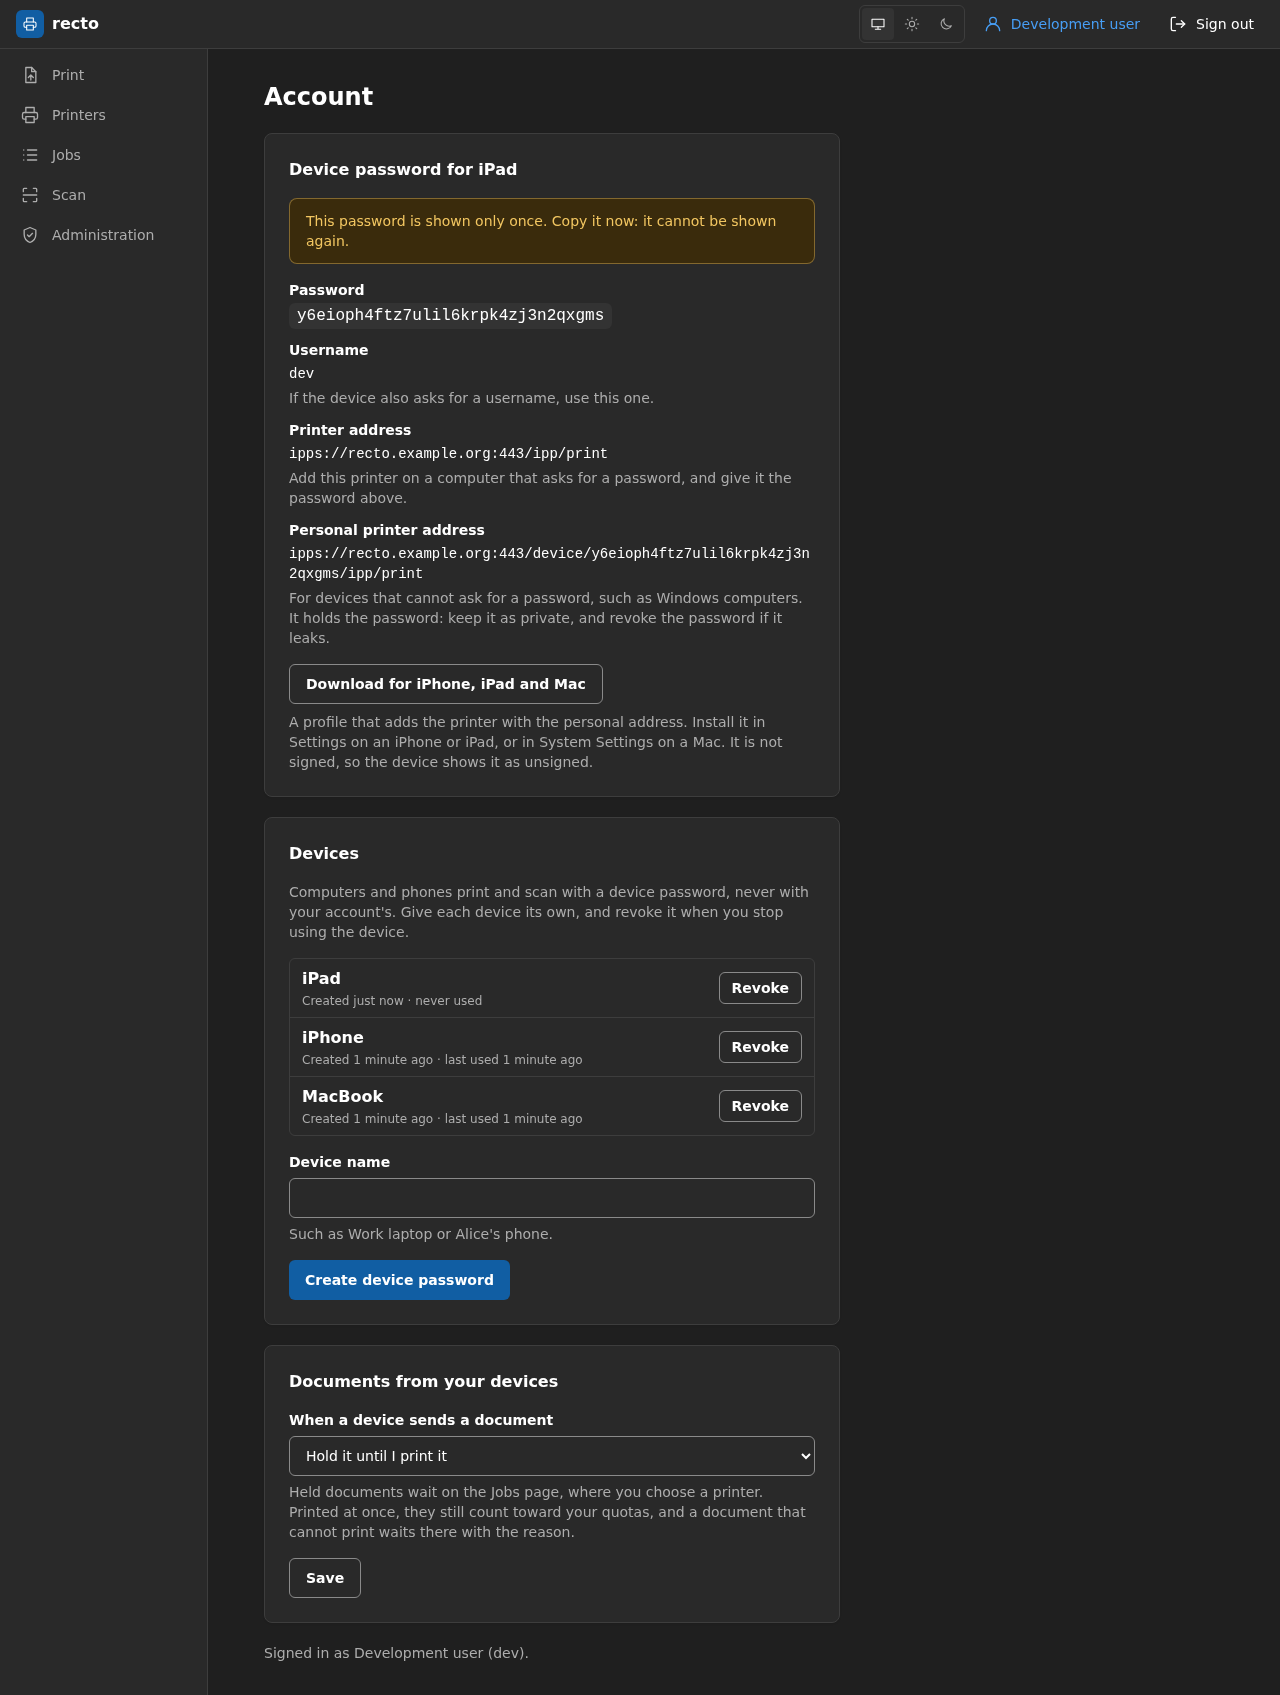
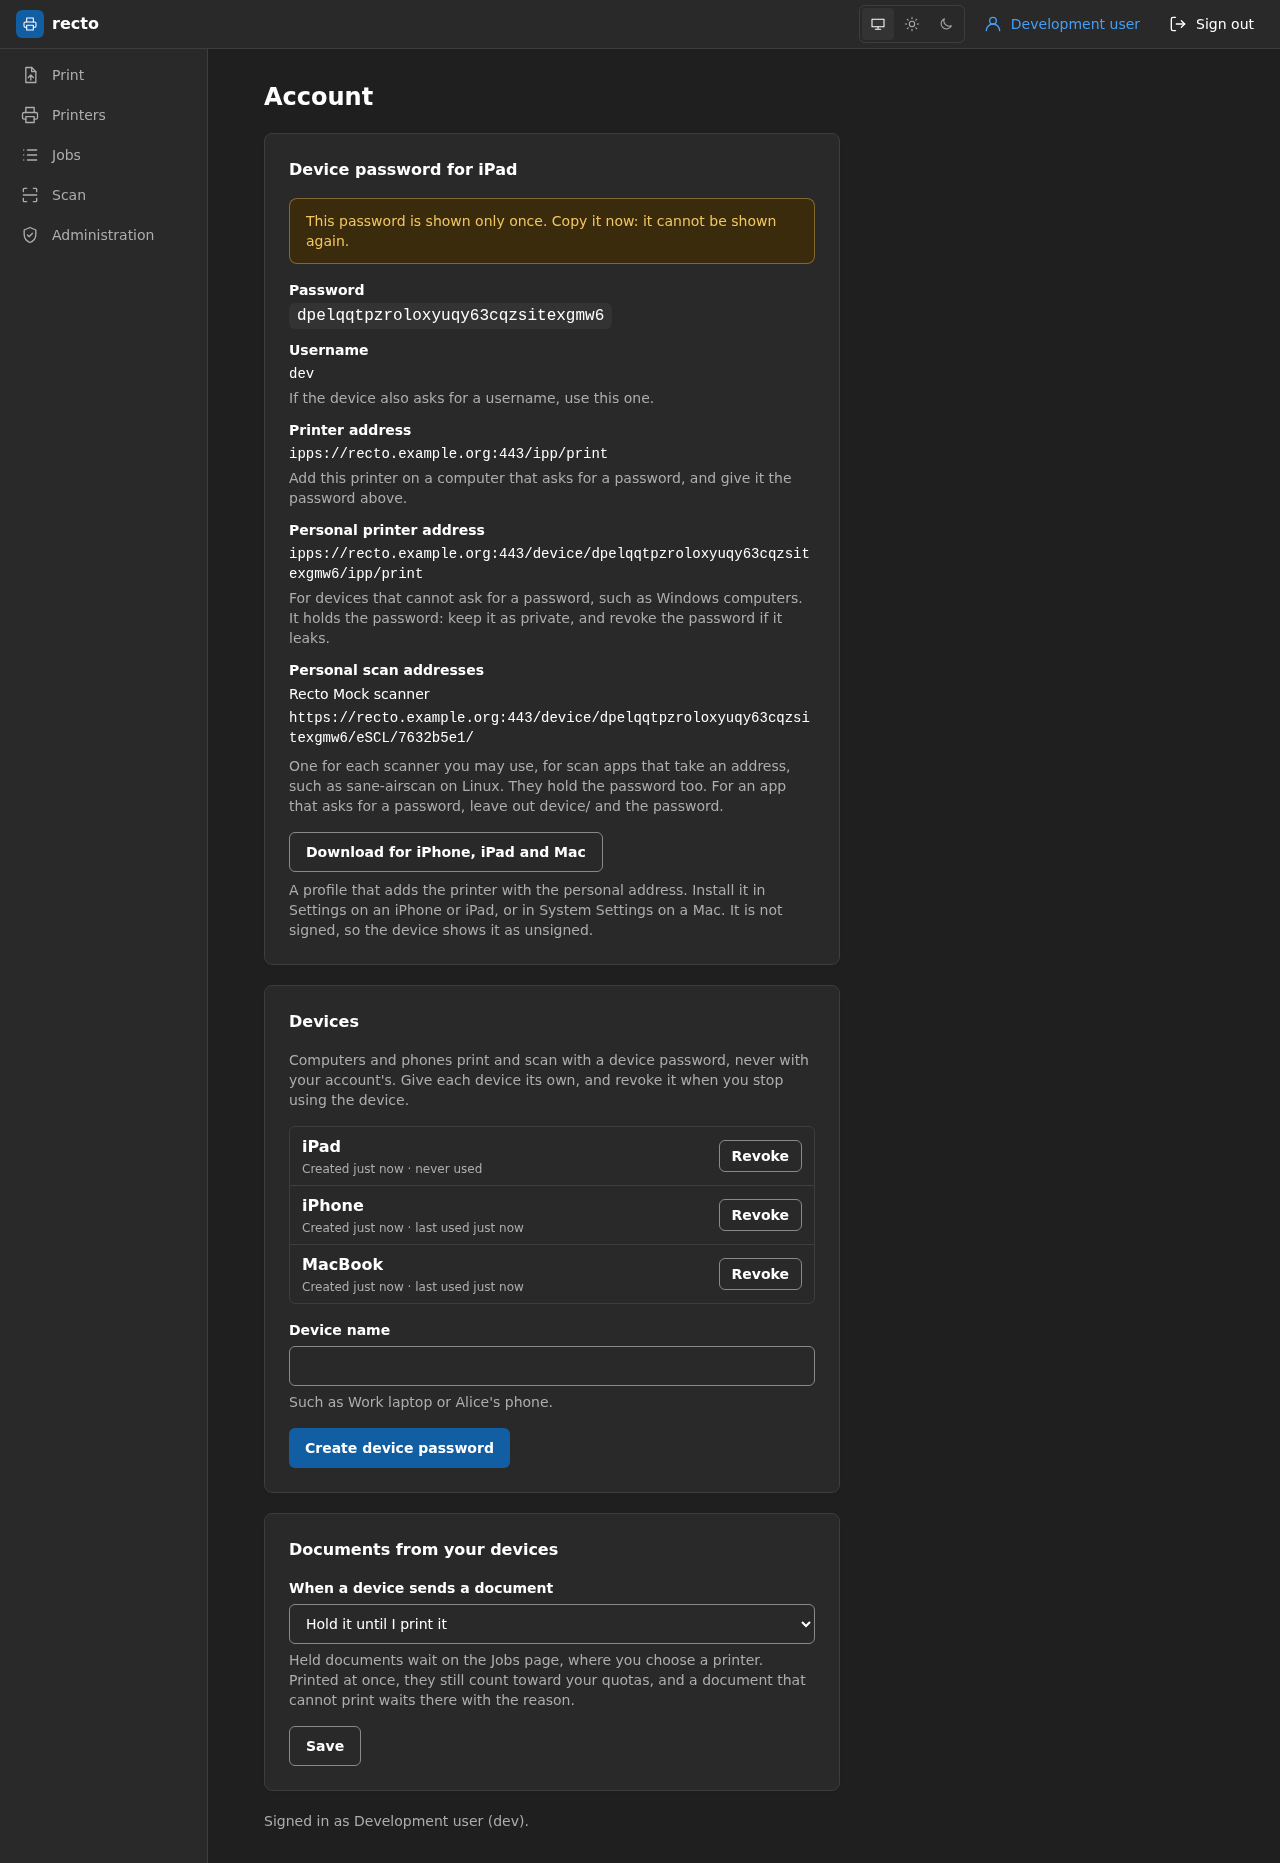
fix(app): fit the held job's release options on wide screens
At 1280 px the five equal columns of the release form cut "Two-sided,
flip on long edge". The columns now follow their content: copies is
narrow, sides and color wider, so every choice reads whole.

The Jobs and Account screenshots are taken again: the first with the
new form, the second with the personal scan addresses the device
password panel now shows, which its alt text names.

diff --git a/crates/app/src/pages/jobs.rs b/crates/app/src/pages/jobs.rs
@@ -326,12 +326,14 @@ fn ReleaseForm(row: HeldRow, printers: Vec<String>, default: Option<String>) -> 
         ("monochrome", t!("print.color.monochrome")),
     ];
     let chosen_sides = row.sides.clone();
+    // On wide screens, columns sized for their longest choice: "Two-sided, flip on short edge"
+    // and "Black and white" are cut in equal columns.
     let chosen_color = row.color_mode.clone();
     view! {
         <form
             method="post"
             action=format!("/jobs/held/{id}/release")
-            class="grid gap-3 sm:grid-cols-2 lg:grid-cols-5"
+            class="grid gap-3 sm:grid-cols-2 lg:grid-cols-[1fr_5rem_2fr_1.4fr_1fr]"
         >
             <Field label=t!("print.printer") input_id=field("printer")>
                 <select id=field("printer") name="printer" required class=INPUT>

diff --git a/docs/src/reference/accounts.md b/docs/src/reference/accounts.md
@@ -153,7 +153,7 @@ default). They are kept in the **Devices** section of the Account page, at `/acc
 
 <picture>
   <source media="(prefers-color-scheme: dark)" srcset="../images/account-devices-dark.png">
-  <img src="../images/account-devices-light.png" alt="The Account page just after creating a device password for an iPad: the password, shown once, the username, the printer address and the personal printer address, and the Download for iPhone, iPad and Mac button; then the Devices section listing the iPad, an iPhone and a MacBook with when each was created and last used and a Revoke button, the form to create another, and Documents from your devices.">
+  <img src="../images/account-devices-light.png" alt="The Account page just after creating a device password for an iPad: the password, shown once, the username, the printer address, the personal printer address and the personal scan address of the scanner, and the Download for iPhone, iPad and Mac button; then the Devices section listing the iPad, an iPhone and a MacBook with when each was created and last used and a Revoke button, the form to create another, and Documents from your devices.">
 </picture>
 
 A device sends its password in one of two ways:
